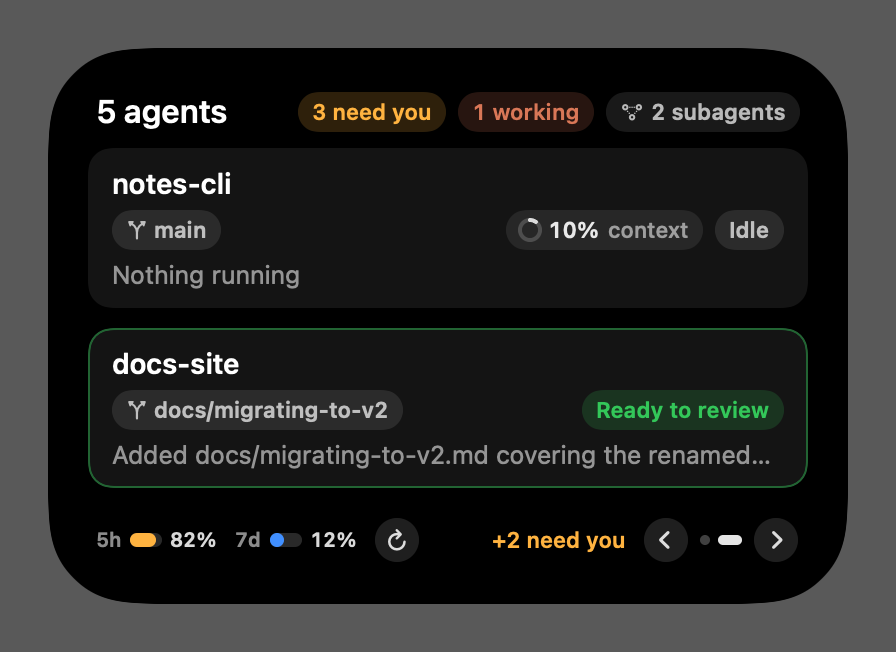
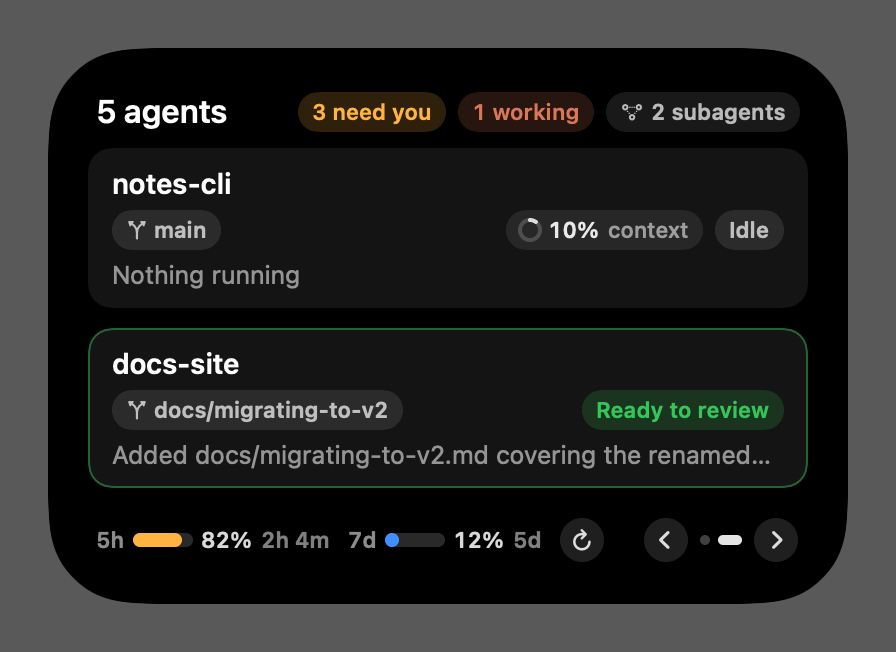
Island: off-page hint says what it means, hides in tree focus, and jumps to the waiting page (#49)

Changed region(s): [[0.0938, 0.7975, 0.6875, 0.8589]]

diff --git a/Shared/IslandViews.swift b/Shared/IslandViews.swift
@@ -859,23 +859,18 @@ struct Footer: View {
             row(bar: 30, size: 11, icon: false)
             row(bar: 22, size: 10.5, icon: false)
             row(bar: 16, size: 10, icon: false)
-            // Tightest: the dots always win. Reset times go first, then the "+N need you" hint.
+            // Tightest: the dots always win, so the reset times go.
             row(bar: 16, size: 10, icon: false, resets: false)
-            row(bar: 16, size: 10, icon: false, resets: false, hint: false)
         }
         .padding(.horizontal, 4)
     }
 
-    private func row(
-        bar: CGFloat, size: CGFloat, icon: Bool, words: Bool = false, resets: Bool = true, hint: Bool = true
-    )
-        -> some View
-    {
+    private func row(bar: CGFloat, size: CGFloat, icon: Bool, words: Bool = false, resets: Bool = true) -> some View {
         HStack(spacing: 8) {
             limits(bar: bar, size: size, icon: icon, words: words, resets: resets)
             refresh
             Spacer(minLength: 0)
-            pager(hint: hint)
+            pager
         }
     }
 
@@ -897,8 +892,8 @@ struct Footer: View {
         .accessibilityLabel("Refresh plan limits")
     }
 
-    @ViewBuilder private func pager(hint: Bool) -> some View {
-        if state.pages > 1 { Pager(state: state, hint: hint).fixedSize() }
+    @ViewBuilder private var pager: some View {
+        if state.pages > 1 { Pager(state: state).fixedSize() }
     }
 
     @ViewBuilder private func limits(bar: CGFloat, size: CGFloat, icon: Bool, words: Bool, resets: Bool) -> some View {
@@ -996,17 +991,11 @@ extension Island {
 /// (wrapping around); the app also turns pages by itself while nobody is tapping.
 struct Pager: View {
     let state: NotchActivityState
-    /// False in the tightest footer, where the dots take the room the "+N need you" hint would use.
-    var hint = true
     /// At most this many dots are drawn; past it they are a window that follows the current page.
     private static let maxDots = 8
     @Environment(\.islandScale) private var k
     var body: some View {
         HStack(spacing: 5) {
-            if hint, state.offPageNeed > 0 {
-                Text("+\(state.offPageNeed) need you").sfont(size: 11, weight: .semibold).foregroundStyle(Island.amber)
-                    .lineLimit(1).fixedSize().padding(.trailing, 3)
-            }
             Button(intent: PageIntent(forward: false)) { arrow("chevron.left") }
                 .accessibilityLabel("Previous page")
             HStack(spacing: 4) {

diff --git a/Tests/NotchbotCoreTests/ActivityStateTests.swift b/Tests/NotchbotCoreTests/ActivityStateTests.swift
@@ -155,52 +155,6 @@ import Testing
         }
     }
 
-    @Test func offPageNeedCountsRequestsOnOtherPages() {
-        // a and d wait on approval, b and c work. One row per page under the featured prompt.
-        let s = store { st in
-            approval("a")(&st)
-            _ = st.apply(ev("UserPromptSubmit", sid: "b") { $0.prompt = "go" })
-            _ = st.apply(ev("UserPromptSubmit", sid: "c") { $0.prompt = "go" })
-            approval("d")(&st)
-        }
-        let pages = (0..<3).map { NotchActivityState.make(sessions: s.active, quota: nil, page: $0) }
-        #expect(pages.allSatisfy { $0.pages == 3 && $0.rows.count == 1 })
-        // Page 0 shows the other approval (urgent rows sort first), so nothing needing you is hidden; on the others it is.
-        #expect(pages.map(\.offPageNeed) == [0, 1, 1])
-    }
-
-    @Test func offPageNeedIsZeroOnASinglePage() {
-        let s = store {
-            approval("a")(&$0); _ = $0.apply(ev("UserPromptSubmit", sid: "b") { $0.prompt = "go" })
-        }
-        #expect(NotchActivityState.make(sessions: s.active, quota: nil).offPageNeed == 0)
-    }
-
-    @Test func offPageNeedIgnoresFinishedReviews() {
-        let s = store { st in
-            approval("a")(&st)
-            for i in 0..<3 {
-                _ = st.apply(ev("UserPromptSubmit", sid: "w\(i)") { $0.prompt = "go" })
-            }
-        }
-        let st = NotchActivityState.make(sessions: s.active, quota: nil)
-        #expect(st.pages > 1 && st.offPageNeed == 0)
-    }
-
-    @Test func approvalOnAnotherPageIsCounted() {
-        let s = store { st in
-            approval("a")(&st)
-            _ = st.apply(ev("UserPromptSubmit", sid: "w") { $0.prompt = "go" })
-            approval("b")(&st)
-        }
-        // a is answerable and featured; w and b are rows, one per page. Whichever page is shown, the other row's need
-        // is counted only when it needs you.
-        let p0 = NotchActivityState.make(sessions: s.active, quota: nil, page: 0)
-        let p1 = NotchActivityState.make(sessions: s.active, quota: nil, page: 1)
-        let needRows = [p0, p1].map { $0.rows.filter { $0.kind == .approval }.count }
-        #expect(p0.offPageNeed + needRows[0] == 1 && p1.offPageNeed + needRows[1] == 1)
-    }
-
     @Test func limitsNoteAndHooksFlagPassThroughAndStayOutOfTheWayByDefault() throws {
         let plain = NotchActivityState.make(sessions: [], quota: nil)
         #expect(plain.limitsNote == nil && !plain.hooksMissing && plain.limitsUnknown)

diff --git a/Sources/NotchbotCore/ActivityState.swift b/Sources/NotchbotCore/ActivityState.swift
@@ -117,8 +117,6 @@ public struct NotchActivityState: Codable, Hashable, Sendable {
     /// Finished sessions waiting for the user to review; shown as a badge on the logo. The app zeroes it when the
     /// setting is off, since the widget process can't read the app's settings.
     public var reviews = 0
-    /// Sessions that need you (not just a finished turn to review) on pages other than the one shown.
-    public var offPageNeed = 0
     /// Why the limits are missing or not current; nil when they are simply shown. Absent from the payload when nil.
     public var limitsNote: LimitsNote?
     /// True when NotchBot's hooks are not installed, so "no sessions" cannot be told apart from "not watching".
@@ -253,9 +251,6 @@ public struct NotchActivityState: Codable, Hashable, Sendable {
                 tool: s.pending.map { clip($0.isQuestion ? "Question" : $0.toolName, 16) }, fromSubagent: s.pending?.agentId != nil,
                 destructive: s.pending?.destructive ?? false, truncated: (s.pending?.commandLength ?? 0) > CommandRisk.inlineLimit)
         }
-        // Sessions that need an answer (not just a review) and sit on another page than the one shown.
-        let shown = Set(rows.map(\.id))
-        let offPage = rest.filter { $0.status.needsAttention && !shown.contains($0.id) }.count
         // A focused session's subagent tree replaces the session rows. A session that is gone or has no subagents
         // falls back to the list (the app then drops the focus).
         let focused = focus.flatMap { id in active.first { $0.id == id && !$0.subagents.isEmpty } }.map {
@@ -273,7 +268,7 @@ public struct NotchActivityState: Codable, Hashable, Sendable {
             subagentsRunning: active.reduce(0) { $0 + $1.runningSubagents }, prompt: prompt, rows: focused == nil ? Array(rows) : [],
             more: max(0, rest.count - rows.count), fiveHour: quota?.fiveHour?.fraction, weekly: quota?.sevenDay?.fraction,
             pulse: 0, fiveHourReset: quota?.fiveHour?.resetsAt, weeklyReset: quota?.sevenDay?.resetsAt, page: current,
-            pages: pages, reviews: active.filter(\.needsReview).count, offPageNeed: offPage, focus: focused)
+            pages: pages, reviews: active.filter(\.needsReview).count, focus: focused)
     }
 
     /// Encoded size in bytes (what ActivityKit measures).

diff --git a/App/Snapshots.swift b/App/Snapshots.swift
@@ -23,15 +23,13 @@ enum IslandSnapshots {
         var large = NotchActivityState.make(
             sessions: sessions.filter { $0.pending == nil }, quota: quota, maxRows: larger.maxRows)
         large.scale = larger.scale
-        var offPage = question
-        offPage.offPageNeed = 2
         var noLimits = NotchActivityState.make(sessions: sessions.filter { $0.pending == nil }, quota: nil)
         noLimits.page = 0
         var failed = noLimits
         failed.limitsNote = .failed
         let hooksOff = NotchActivityState.make(sessions: [], quota: nil, hooksInstalled: false)
         for (name, st) in [
-            ("expanded-off-page-need", offPage), ("expanded-limits-unavailable", noLimits),
+            ("expanded-limits-unavailable", noLimits),
             ("expanded-limits-failed", failed), ("expanded-hooks-missing", hooksOff),
         ] {
             write(expanded(st), dir.appendingPathComponent("\(name).png"))
